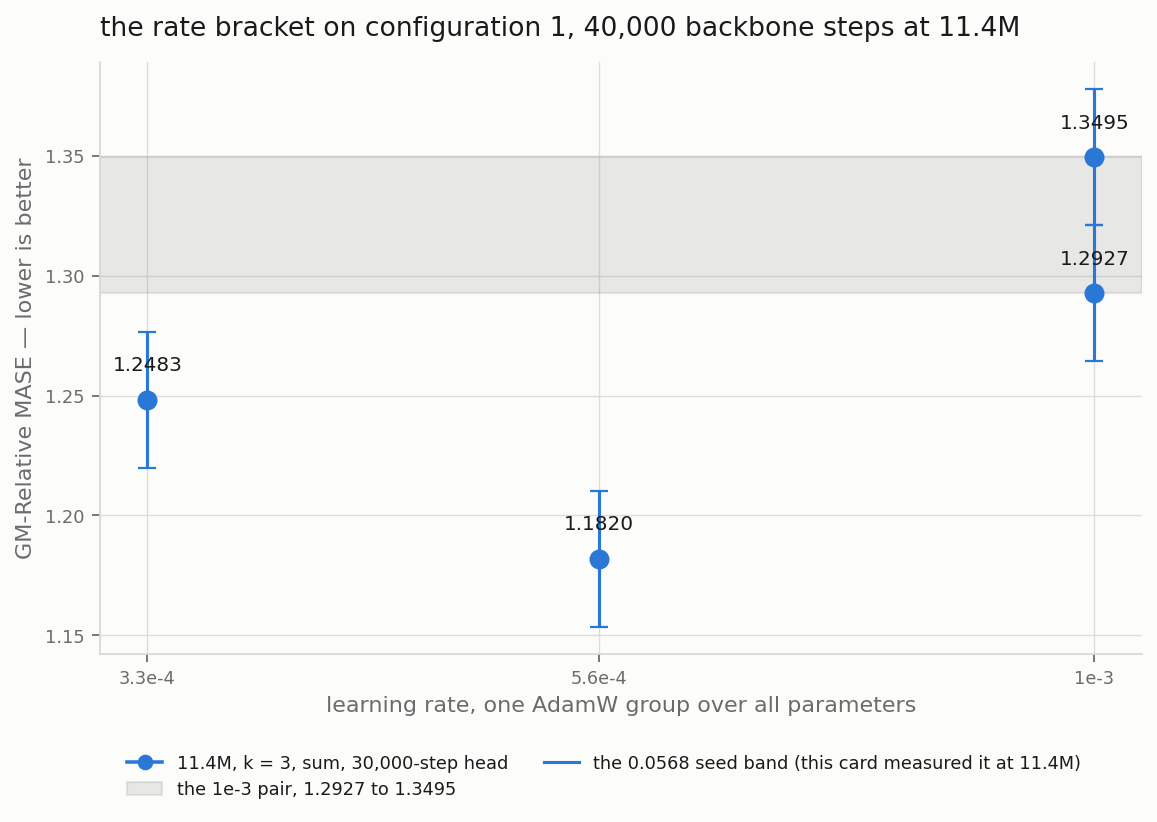
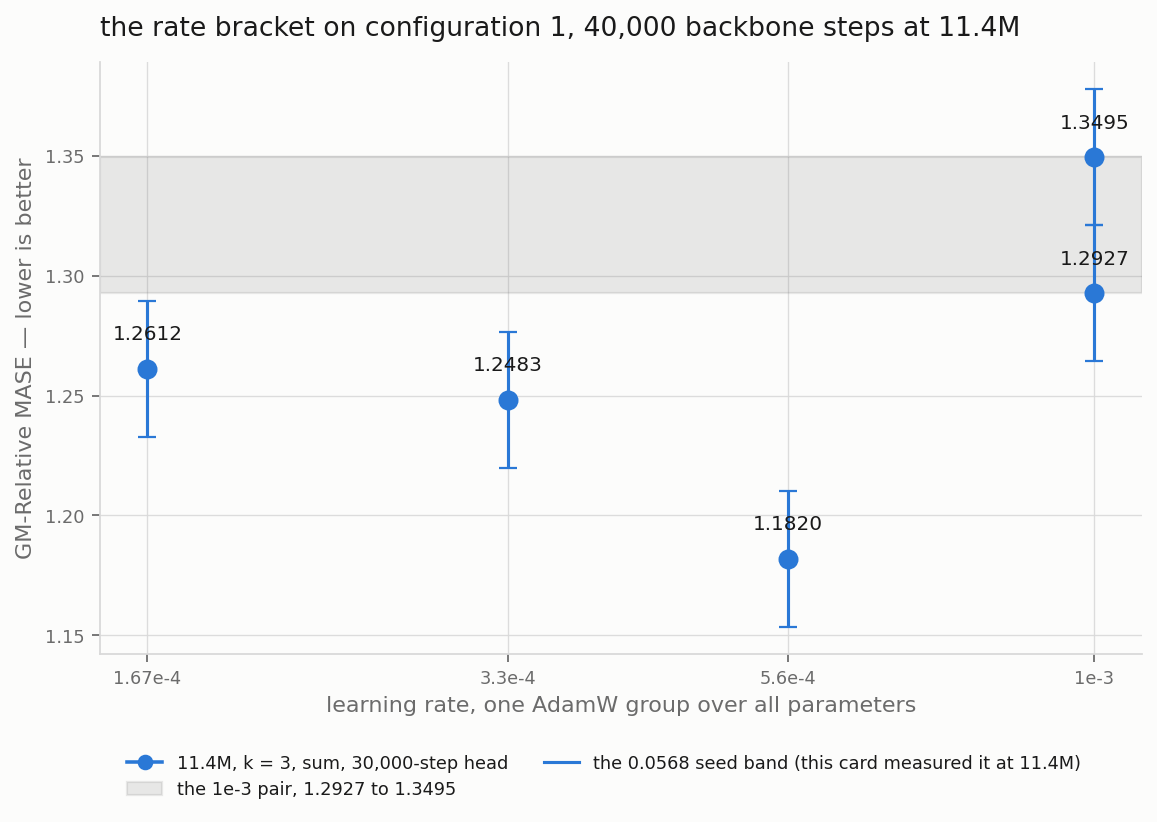
exp(#412): the rate bracket closes at 1.2612, and the optimum is interior
k3_r100_09_lr17 at 1.67e-4 scores 1.2612, so all three rates are in. The curve
turns: 5.6e-4 at 1.1820 beats 3.3e-4 by 1.2 bands and 1.67e-4 by 1.4 bands.

The two lowest rates tie 0.2 of a band apart and both sit inside the band
against the better 1e-3 seed, so only 5.6e-4 clears the bar. The section says
to read "1e-3 is too high" and not "lower is better".

diff --git a/reports/2026-09-06_moirai_small_size/results/tables.md b/reports/2026-09-06_moirai_small_size/results/tables.md
@@ -6,6 +6,7 @@ The band is **0.0568** (this card measured it at 11.4M). Two numbers closer than
 |---|---|---|---|---|---|---|---|---|---|---|
 | k3_r100_09_lr56 | 3 | sum | 20260520 | 5.6e-4 | no | 40,000 | 1.1820 | never run | — | — |
 | k3_r100_09_lr33 | 3 | sum | 20260520 | 3.3e-4 | no | 40,000 | 1.2483 | never run | — | — |
+| k3_r100_09_lr17 | 3 | sum | 20260520 | 1.67e-4 | no | 40,000 | 1.2612 | never run | — | — |
 | k3_r100_09b | 3 | sum | 20260525 | 1e-3 | no | 40,000 | 1.2927 | 1.3618 | -0.0691 | no, 15,000-step head |
 | k3_r100_09_dec | 3 | sum | 20260520 | 1e-3 | yes | 40,000 | 1.3236 | never run | — | — |
 | k3_r100_09 | 3 | sum | 20260520 | 1e-3 | no | 100,000 | 1.3395 | 1.3010 | +0.0385 | yes |
@@ -18,17 +19,30 @@ The band is **0.0568** (this card measured it at 11.4M). Two numbers closer than
 | arm | verdict | AUC floor | at step | AUC last | at step |
 |---|---|---|---|---|---|
 | k32_r100_09 | held | 0.6827 | 20872 | 0.7732 | 40000 |
+| k32_r100_09 | held | 0.6827 | 20872 | 0.7732 | 40000 |
+| k32_r100_09_dec | lost | 0.5014 | 19100 | 0.5014 | 19100 |
 | k32_r100_09_dec | lost | 0.5014 | 19100 | 0.5014 | 19100 |
 | k32_r200_08 | lost | 0.5347 | 28500 | 0.5347 | 28500 |
+| k32_r200_08 | lost | 0.5347 | 28500 | 0.5347 | 28500 |
+| k3_r100_09 | held | 0.9931 | 1942 | 0.9988 | 40000 |
 | k3_r100_09 | held | 0.9931 | 1942 | 0.9988 | 40000 |
 | k3_r100_09 | held | 0.9974 | 40001 | 0.9994 | 100000 |
+| k3_r100_09 | held | 0.9974 | 40001 | 0.9994 | 100000 |
+| k3_r100_09 | held | 0.9992 | 144399 | 0.9995 | 200000 |
 | k3_r100_09 | held | 0.9992 | 144399 | 0.9995 | 200000 |
 | k3_r100_09_dec | held | 0.9797 | 9690 | 0.9974 | 40000 |
+| k3_r100_09_dec | held | 0.9797 | 9690 | 0.9974 | 40000 |
+| k3_r100_09_lr17 | held | 0.9852 | 5991 | 0.9985 | 40000 |
 | k3_r100_09_lr17 | held | 0.9852 | 5991 | 0.9985 | 40000 |
 | k3_r100_09_lr33 | held | 0.9913 | 3337 | 0.9980 | 40000 |
+| k3_r100_09_lr33 | held | 0.9913 | 3337 | 0.9980 | 40000 |
+| k3_r100_09_lr56 | held | 0.9936 | 34553 | 0.9956 | 40000 |
 | k3_r100_09_lr56 | held | 0.9936 | 34553 | 0.9956 | 40000 |
 | k3_r100_09b | held | 0.9922 | 1869 | 0.9982 | 40000 |
+| k3_r100_09b | held | 0.9922 | 1869 | 0.9982 | 40000 |
 | k8_r100_09 | held | 0.6847 | 14106 | 0.7302 | 40000 |
+| k8_r100_09 | held | 0.6847 | 14106 | 0.7302 | 40000 |
+| run | verdict | floor | floor_step | last | last_step |
 
 ### The contrastive AUC, step by step
 
@@ -108,3 +122,4 @@ Lower is worse. A run at 0.5 has lost the task. The last column is what the same
 | k8_r100_09 | backbone | 40,000 | 5.3 |
 | k3_r100_09_bb200k_h30k_student | GIFT-Eval, 97 configs | — | 4.0 |
 | k8_r100_09_bb40k_h30k_student | head | 30,000 | 1.6 |
+| k3_r100_09_lr17_bb40k_h30k_student | GIFT-Eval, 97 configs | — | 3.9 |

diff --git a/reports/2026-09-06_moirai_small_size/moirai_small_size.md b/reports/2026-09-06_moirai_small_size/moirai_small_size.md
@@ -76,9 +76,10 @@ card fixed before the sweep ran.
 | rate | score | D against 1.3495, same seed | D against 1.2927, other seed |
 |---|---|---|---|
 | 1e-3, seed 20260520 | 1.3495 | — | — |
-| 1e-3, seed 20260525 | 1.2927 | +0.0568, 1.0 band | — |
-| 3.3e-4 | 1.2483 | +0.1012, 1.8 bands | +0.0444, 0.8 bands |
-| 5.6e-4 | 1.1820 | +0.1675, 2.9 bands | +0.1107, 1.9 bands |
+| 1e-3, seed 20260525 | 1.2927 | 1.0 band | — |
+| 5.6e-4 | 1.1820 | 2.9 bands | 1.9 bands |
+| 3.3e-4 | 1.2483 | 1.8 bands | 0.8 bands |
+| 1.67e-4 | 1.2612 | 1.6 bands | 0.6 bands |
 
 EVERY READING AGREES, which is why this one is a verdict where `lr33` was not.
 The bar was 1.2359, the better 1e-3 seed less one band, and 1.1820 clears it by
@@ -90,10 +91,14 @@ SO EVERY 1e-3 NUMBER IN THIS REPORT IS TAKEN AT A RATE THAT DOES NOT FIT
 `d_model` 384. That is the card's own rule, fixed in advance: D above the band
 voids the 1e-3 numbers.
 
-The rate also has an interior optimum on this bracket, not a monotone slope.
-5.6e-4 beats 3.3e-4 by 0.0663, which is 1.2 bands, so lowering the rate further
-made the model worse. `k3_r100_09_lr17` at 1.67e-4 is the third point and its
-eval runs now.
+THE BRACKET HAS AN INTERIOR OPTIMUM AT 5.6e-4, and all three points are in.
+It beats 3.3e-4 by 1.2 bands and 1.67e-4 by 1.4 bands, so lowering the rate
+past it made the model worse, twice. The two lowest rates tie with each other,
+0.2 of a band apart, and both sit inside the band against the better 1e-3 seed.
+
+So only 5.6e-4 clears the bar. A reader should take "1e-3 is too high at this
+width" from this section and NOT "lower is better": the curve turns, and the
+best rate this card found is 1.8 times the lowest one it tried.
 
 ## A longer stop does not change the size answer
 
